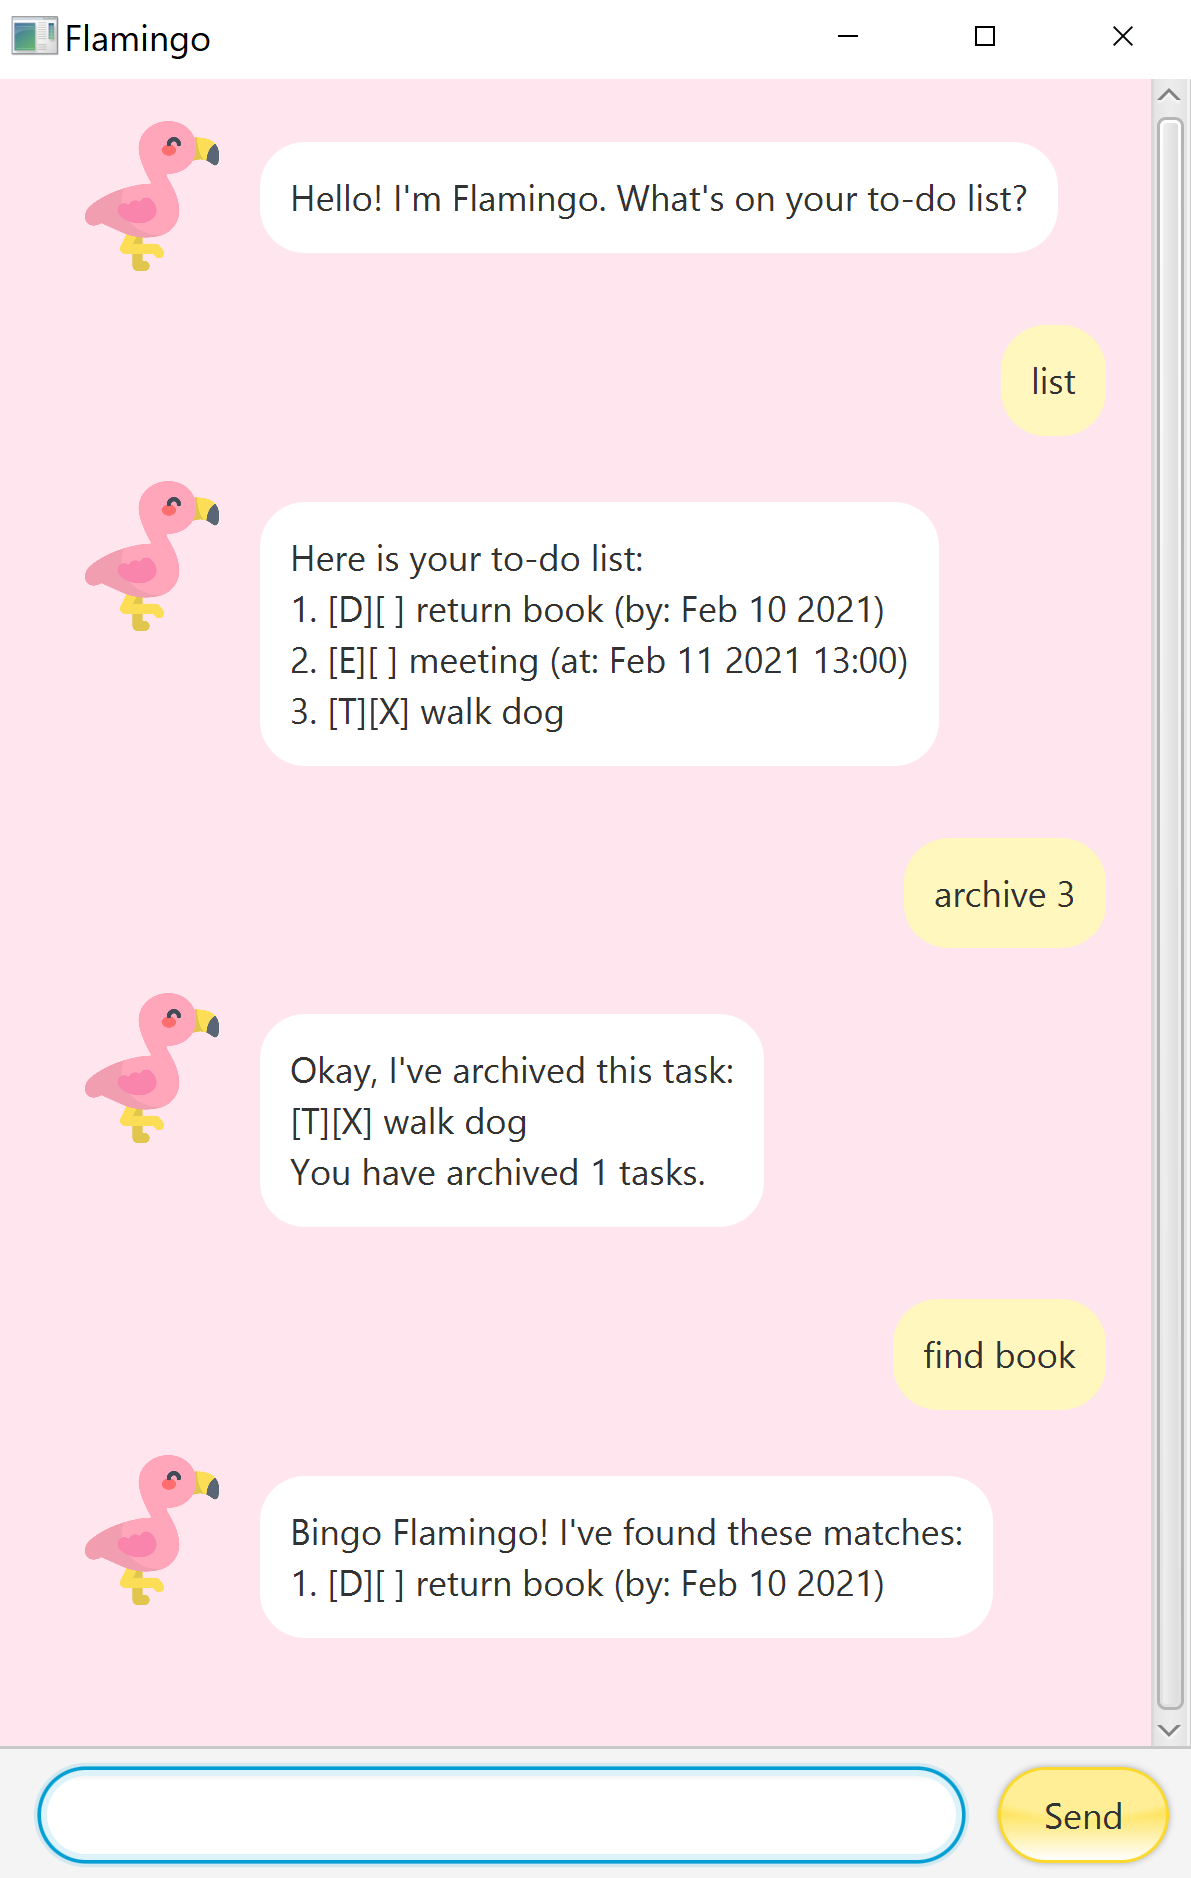
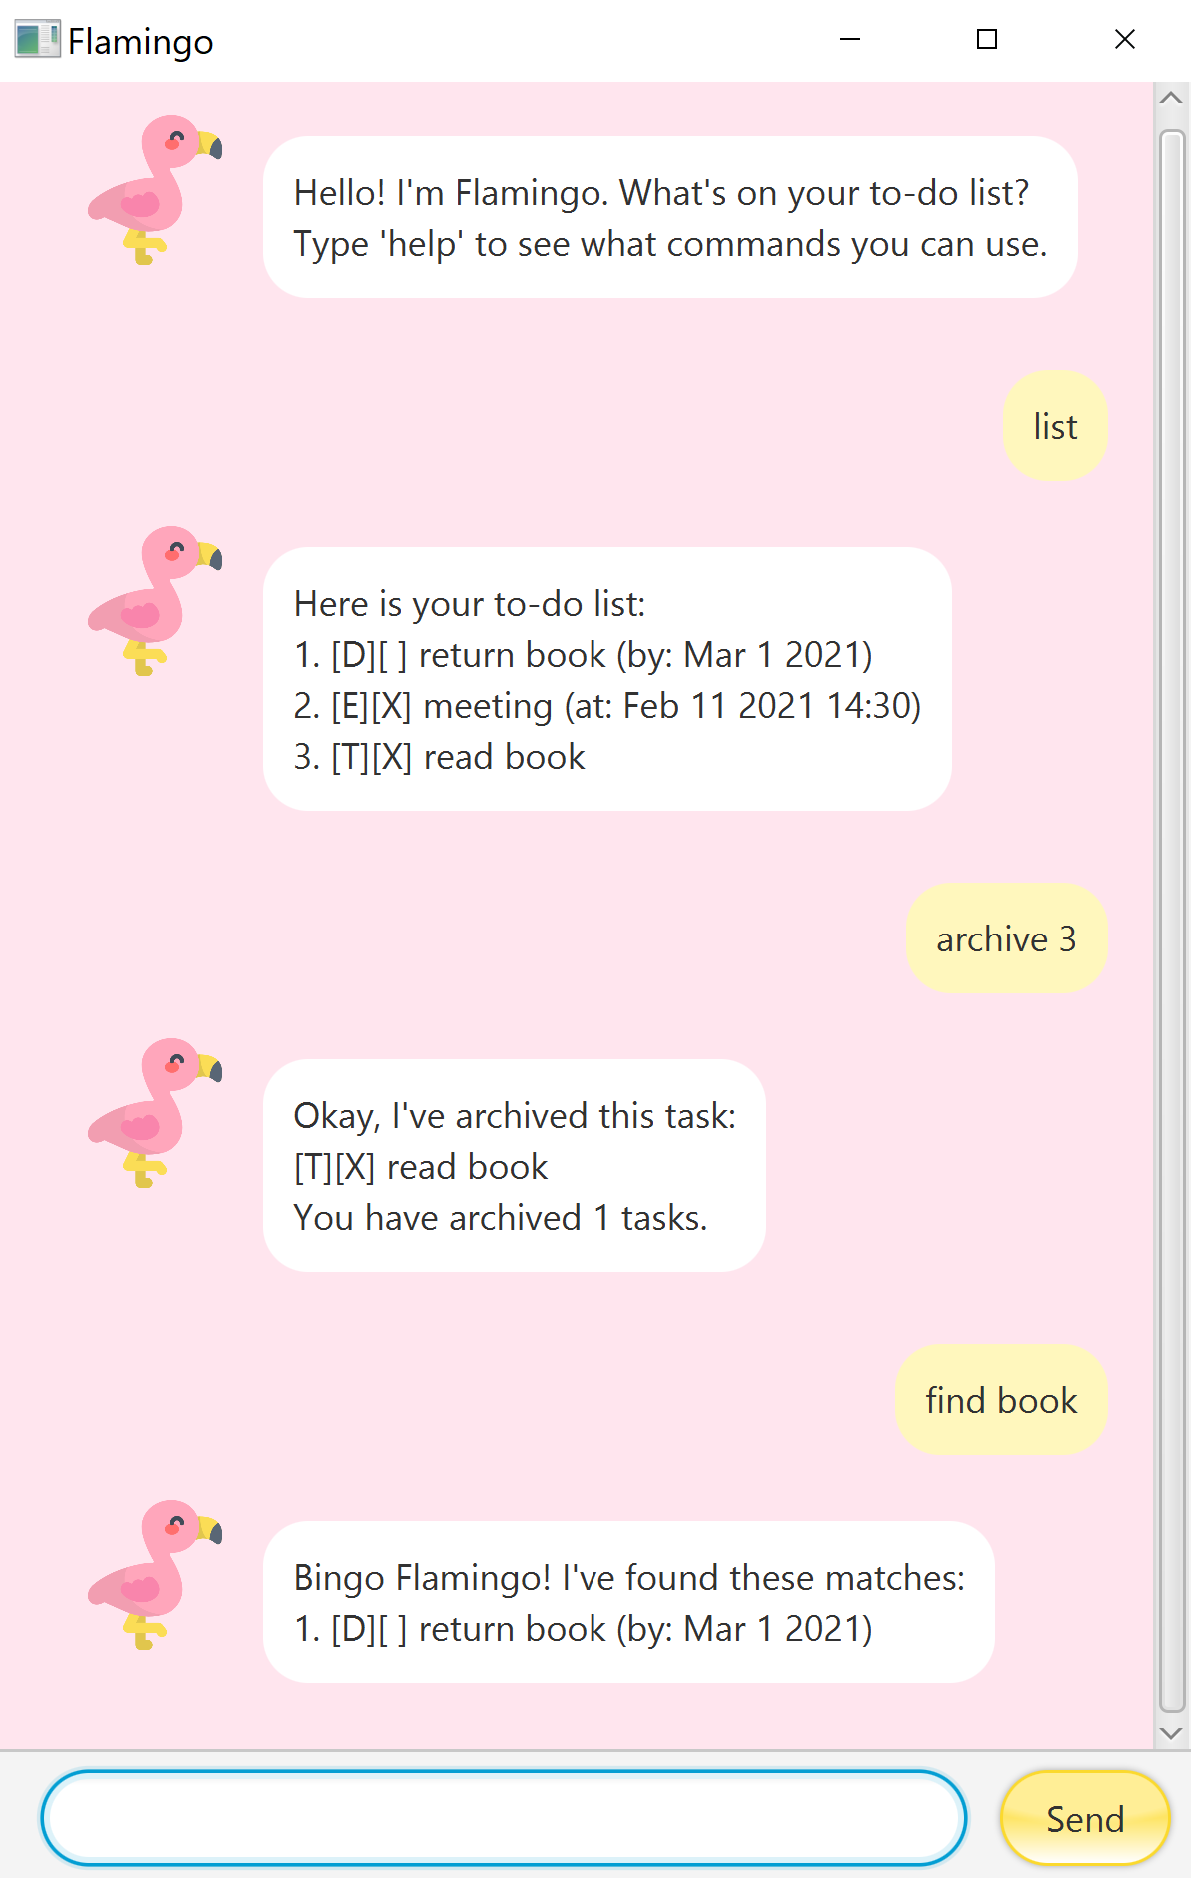
Add Help command

diff --git a/src/main/java/flamingo/Ui.java b/src/main/java/flamingo/Ui.java
@@ -7,8 +7,13 @@ import java.util.ArrayList;
  */
 public class Ui {
 
+    /**
+     * Displays introduction message for the user.
+     * @return String with introduction message.
+     */
     public static String sayHello() {
-        return "Hello! I'm Flamingo. What's on your to-do list?";
+        return "Hello! I'm Flamingo. What's on your to-do list?\n"
+                + "Type 'help' to see what commands you can use.\n";
     }
 
     public static String sayBye() {
@@ -108,5 +113,25 @@ public class Ui {
 
     public static String saveData() {
         return "Great! I've saved your data.";
+    }
+
+    /**
+     * Shows commands that the user can try.
+     * @return String of commands.
+     */
+    public static String showHelp() {
+        return "Here are some commands you can try!\n"
+                + "\nAdd a to-do: todo <description>\n"
+                + "\nAdd a deadline task: deadline <description> /by <yyyy-mm-dd>\n"
+                + "\nAdd an event: event <description> /at <yyyy-mm-dd>T<hh:mm>\n"
+                + "\nView all tasks: list\n"
+                + "\nMark a task as completed: done <index>\n"
+                + "\nDelete a task: delete <index>\n"
+                + "\nFind a task by keyword: find <keyword>\n"
+                + "\nArchive a task: archive <index> OR archive all\n"
+                + "\nView all archived tasks: archive\n"
+                + "\nUnarchive a task: unarchive <index>\n"
+                + "\nSave your data: save\n"
+                + "\nExit the program: bye\n";
     }
 }

diff --git a/src/main/java/flamingo/Parser.java b/src/main/java/flamingo/Parser.java
@@ -46,6 +46,8 @@ public class Parser {
             return exitProgram();
         } else if (userInput.equals("save")) {
             return saveAllData();
+        } else if (userInput.equals("help")) {
+            return Ui.showHelp();
         } else if (userInput.equals("list")) {
             return listTasksIfValid();
         } else if (userInput.contains("done")) {

diff --git a/docs/README.md b/docs/README.md
@@ -46,7 +46,7 @@ Removes the task from the archive list and moves it back to the to-do list.
 
 Saves the data. 
 
-### Exiting the program: `exit`
+### Exiting the program: `bye`
 
 Saves the data and closes the window.
 
@@ -261,12 +261,12 @@ Great! I've saved your data.
 
 ---
 
-### `exit` - Exits the program.
+### `bye` - Exits the program.
 
 Saves the data and closes the window.
 
 Example of usage: 
 
-`exit`
+`bye`
 
 ---
